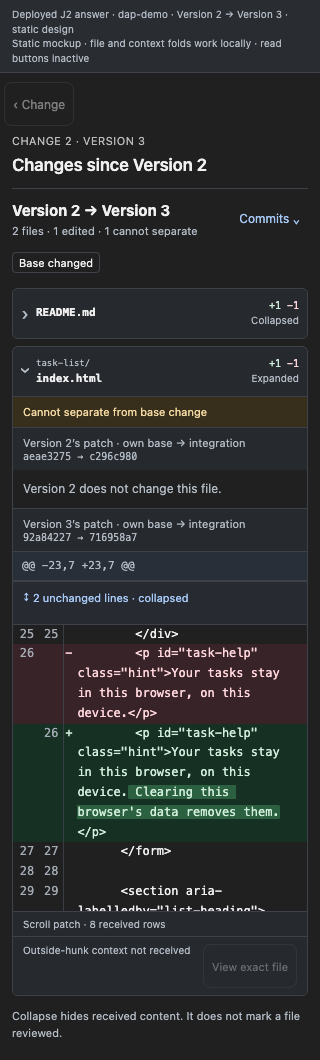
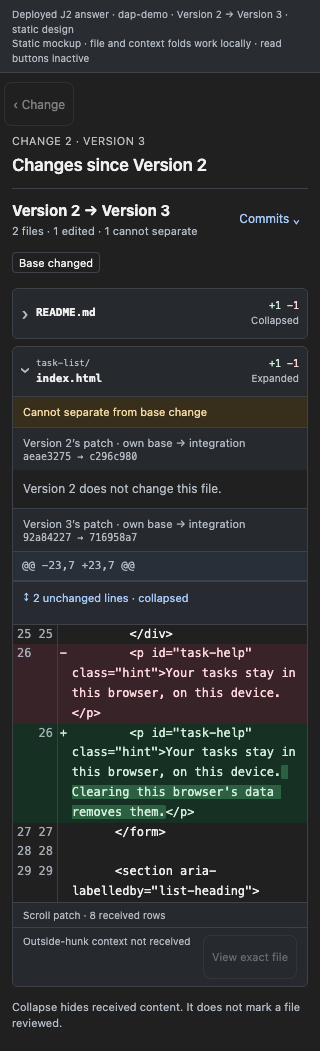
Record single-line gutters and the corrected render series
Retain the rejected numbers beside the new text-range counter and full
recapture. Preserve the first sealed unit, extend the manifest, and replace
the key captures without changing product source or Native measurements.

Rests-On: git:sha1:589bca982736a2361d15d53f7572375ef2f7aaf3#git:sha1:353a0ec051ee7a6d75c8cd94abc5d844b0dcc69d
Promise: git:sha1:589bca982736a2361d15d53f7572375ef2f7aaf3#git:sha1:5e63db87aa26c3d72b8c5a512fbb2fd83480cc47

diff --git a/notes/implementation/2026-11-02-readable-diff-design.md b/notes/implementation/2026-11-02-readable-diff-design.md
@@ -44,7 +44,7 @@ Five synthetic budget models check escaped paths, many empty rows, all four grou
 
 Producer checkpoint: `892456defbfe41042d1a54d5b1d38159401b5c12`, tree `396fb1fa6e236e002dae4150a677ce3a4df28a84`. Seventeen relevant producer, card, resource, owning-test, and lock blobs remain identical through parent main `f277867fedb2cf82417c439984096271354e30b4`, tree `7665e88e44f013ff60db27d61923e2fc458b1f18`. This design head adds only documentation, static design inputs, three key images, and its manifest. Source and tests remain those of that parent. The docs-only follow-up rule applies; no gate or whole suite repeats.
 
[2 lines of base64/hex data omitted]
 
 The deployed changed-base answer comes from the sealed J2 evidence. Planner ruling `09a2b61a5cd0c497a10da4b13b169ba2c2bacc1a` permits local fixtures for the missing ten-file and truncated cases. Their source code comes from the real history ranges `5f42f885..cbc844c4` and `09420198..86afb6a5`. Two synthetic local commits per case retain the byte-identical full files for all ten changed paths. Provenance checks every before and after Git blob. The accepted J2 room stays untouched. The ten-file answer reaches ten complete files. The truncated answer reaches eight paths and leaves out “the last 385 lines of the patch of packages/mcp/test/hosted.scope.test.ts and every path after it”. Each render labels its source and the local commits.
 
@@ -54,38 +54,47 @@ The observer reconstructs `#showRead`'s input from the exact source Projection a
 
 | Check | Command or observation | Actual result | Evidence file and SHA256 |
 |---|---|---|---|
[55 lines of base64/hex data omitted]
 
-The final render pass covers twelve required combinations: three cases, widths 592 and 320, and both themes. Twenty final captures include file opening, context expansion, commit disclosure, and truncation after collapse. Every emitted source row matches its DATA annotation: 497 in the ten-file case, thirteen in the interdiff, and 407 in the truncated case. The browser reports no outer overflow, page errors, or outside requests. This checks static DOM fidelity and local disclosures. It does not test a product parser, selection and clipboard behavior, a native host, or runtime performance.
+Checker `bfb0c27e` found that the first render pass wrapped three-digit coordinates. Its row and overflow checks had missed that defect. Static source checkpoint `4fecb193df8084dbeb6b1bfe8eaab0ef37819147` sizes each gutter from the patch’s largest declared coordinate, includes padding in the width, and keeps the number unwrapped. The old-render counter rejects 200 cells at each width. The corrected matrix opens every file and context disclosure, checks each numeric text range occupies one line and fits after padding and borders, then restores the intended state. All 4,112 numeric-cell checks pass. Original-resolution inspection confirms the corrected 355 and 356 gutters in both key widths.
 
-The evidence retains early bundle corrections, the failed full-history fixture, the first smaller-type render pass, and earlier budget models beside their final replacements. Raw Native process output and private fixture repositories stay outside the unit. Safe terminal extracts, actual exits, and whole-file hashes retain those run outcomes. The known-pattern audit covers every retained text file. The inspected final captures show repository code and source labels with no visible credential. The unit has verified SHA256SUMS and readonly modes. Keep it for at least 30 days after landing.
+The corrected final render pass covers twelve required combinations: three cases, widths 592 and 320, and both themes. Twenty final captures include file opening, context expansion, commit disclosure, and truncation after collapse. Every emitted source row matches its DATA annotation: 497 in the ten-file case, thirteen in the interdiff, and 407 in the truncated case. The browser reports no outer overflow, page errors, or outside requests. This checks static DOM fidelity and local disclosures. It does not test a product parser, selection and clipboard behavior, a native host, or runtime performance.
+
+The evidence retains early bundle corrections, the failed full-history fixture, the first smaller-type render pass, the rejected gutter renders, and earlier budget models beside their final replacements. The first 267-file unit stays unchanged. The 51-file gutter unit holds the exact correction, counter and full recapture. No Native fixture, package probe, budget model, gate, or whole suite repeats for the gutter correction. Raw Native process output and private fixture repositories stay outside the unit. Safe terminal extracts, actual exits, and whole-file hashes retain those run outcomes. The known-pattern audit covers every retained text file. The inspected final captures show repository code and source labels with no visible credential. The unit has verified SHA256SUMS and readonly modes. Keep it for at least 30 days after landing.
 
 ## Hugh's decision precedes implementation
 
 - **Design decision — `353a0ec051ee7a6d75c8cd94abc5d844b0dcc69d` and the planner.** Checker approval and landing finish this packet. The planner then shows Hugh the renders. Hugh decides before any product renderer, server schema, context action, or dependency change. An implementation needs a new request after that decision.
-- **Production correctness — `353a0ec0` records the boundary for a future implementation request.** The disposable probe and static sources do not implement the complete parser, schema admission, non-text fallbacks, adaptive line gutters, wrapping and copy behavior, keyboard and screen-reader behavior, contrast review, or large-patch performance. Final resource bytes, notices, exact whole results, and host limits need implementation evidence. The proposed 65,536-byte outbound Display check supplements the existing internal Projection guard. No production limit changes here.
+- **Production correctness — `353a0ec0` records the boundary for a future implementation request.** The disposable probe and static sources do not implement the complete parser, schema admission, non-text fallbacks, large-coordinate gutters, wrapping and copy behavior, keyboard and screen-reader behavior, contrast review, or large-patch performance. Final resource bytes, notices, exact whole results, and host limits need implementation evidence. The proposed 65,536-byte outbound Display check supplements the existing internal Projection guard. No production limit changes here.
 - **Desktop host — `1a44f0429e7d52b09dae7861de5c389083904ba7`.** Chromium fixtures do not establish Goose Desktop rendering, its final CSP, tool timeouts, model hiding, or result-size acceptance. The local capture envelope is not an observed Desktop or stdio frame.
 - **Held truncated answers — `e4d0cfed4d9c5de0f2ed579c6f02e531df9e1336`.** This packet does not repair the cached cut-short answer. A local fold cannot fetch omitted bytes or make a stale held read current. That separate request retains the behavior change.
